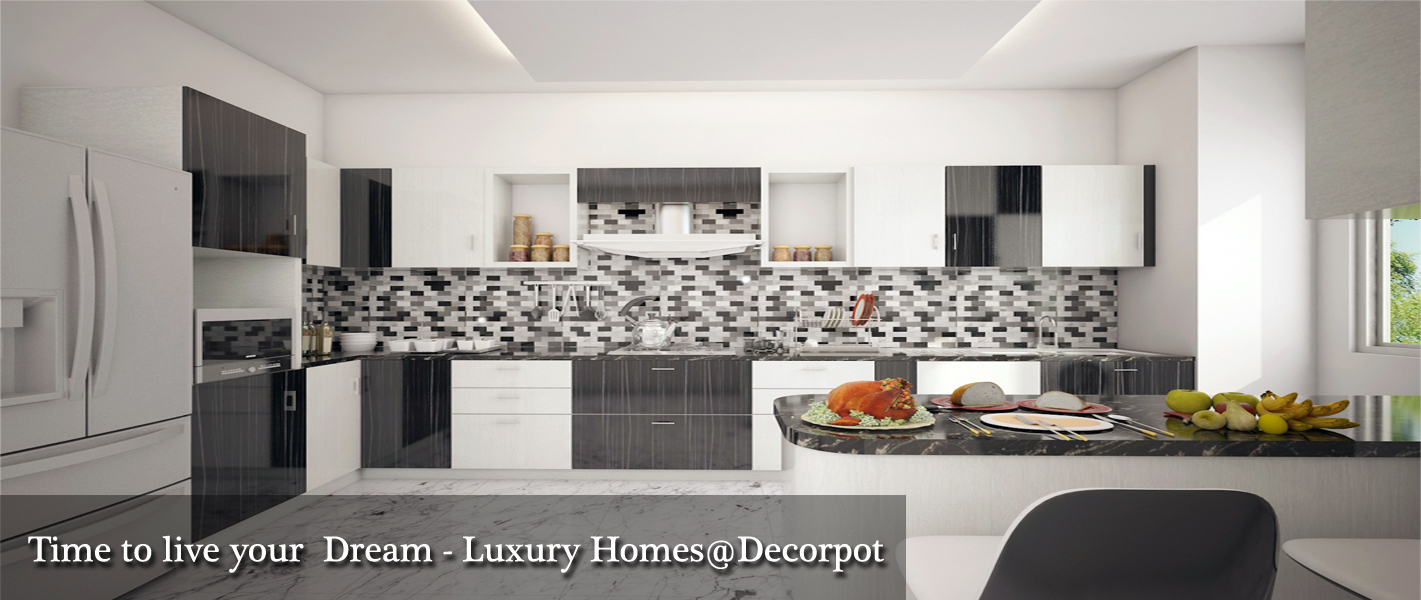
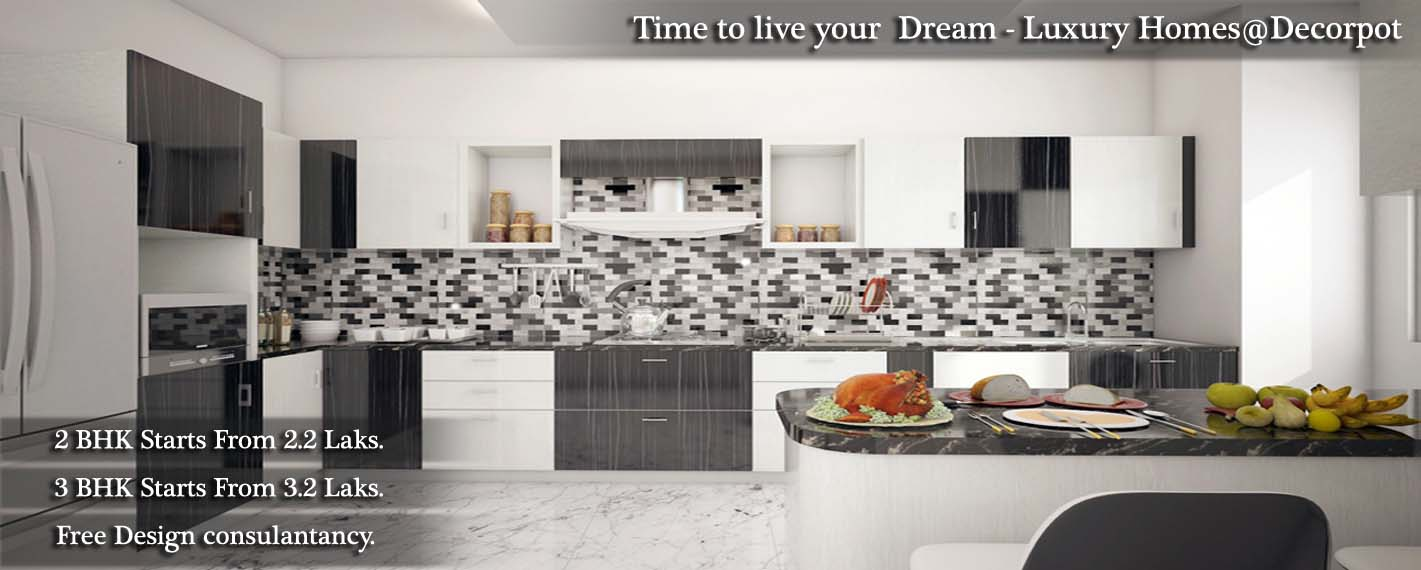
furniture and new first pages

diff --git a/decorpot-web/src/main/webapp/resources/core/js/application/app.js b/decorpot-web/src/main/webapp/resources/core/js/application/app.js
@@ -75,6 +75,10 @@ decorpot.config(['$authProvider', '$stateProvider', '$urlRouterProvider','$httpP
         url: '/project/:param',
         templateUrl : 'resources/partials/ongoingProject.html',
 		controller : 'OngoingProjectController as onCtrl'
+    }).state('furnitures', {
+    	url: '/furnitures',
+    	templateUrl: 'resources/partials/furnitures.html',
+    	controller: 'FurnituresController'
     });
 	
 	$authProvider.google({

diff --git a/decorpot-web/src/main/webapp/resources/partials/home.html b/decorpot-web/src/main/webapp/resources/partials/home.html
@@ -10,7 +10,7 @@
 			</div>
 			
 			<div class="item">
-				<img src="resources/core/img/brands.png" alt="Brands">
+				<img src="resources/core/img/banner3.jpg" alt="Brands">
 			</div>
 			
 		</div>

diff --git a/decorpot-repository/src/main/java/com/decorpot/repostory/impl/FurnituresRepoImpl.java b/decorpot-repository/src/main/java/com/decorpot/repostory/impl/FurnituresRepoImpl.java
@@ -1,0 +1,64 @@
+package com.decorpot.repostory.impl;
+
+import java.sql.ResultSet;
+import java.sql.SQLException;
+import java.util.List;
+
+import javax.sql.DataSource;
+
+import org.springframework.beans.factory.annotation.Autowired;
+import org.springframework.jdbc.core.JdbcTemplate;
+import org.springframework.jdbc.core.RowMapper;
+import org.springframework.stereotype.Repository;
+
+import com.decorpot.repository.interfaces.FurnituresRepo;
+import com.decorpot.rest.models.Furniture;
+import com.decorpot.rest.models.Furnitures;
+import com.decorpot.utils.DecorpotConstants;
+
+@Repository
+public class FurnituresRepoImpl implements FurnituresRepo {
+	
+	private JdbcTemplate jdbcTemplate;
+	private static final String getAllFurnitures = "select * from Decorpot.furnitures";
+	private static final String getAllFurnituresByType = "select * from Decorpot.furnitures where type = ?";
+	
+	@Autowired
+	public FurnituresRepoImpl(DataSource dataSource) {
+		jdbcTemplate = new JdbcTemplate(dataSource);
+	}
+
+	@Override
+	public List<Furniture> getAllFurnitures() {
+		return jdbcTemplate.query(getAllFurnitures, new FurnitureMapper());
+	}
+
+	@Override
+	public List<Furniture> getAllFurnituresByType(String type) {
+		return jdbcTemplate.query(getAllFurnituresByType, new Object[]{type}, new FurnitureMapper());
+	}
+
+	@Override
+	public Furniture getFurnitureById(int id) {
+		// TODO Auto-generated method stub
+		return null;
+	}
+	
+	public class FurnitureMapper implements RowMapper<Furniture>{
+
+		@Override
+		public Furniture mapRow(ResultSet rs, int rowNum) throws SQLException {
+			Furniture furniture = new Furniture();
+			furniture.setDescription(rs.getString("DESCRIPTION"));
+			furniture.setType(rs.getString("TYPE"));
+			furniture.setPrice(rs.getInt("PRICE"));
+			furniture.setImageHdPath(DecorpotConstants.HD_COMPRESSED_PATH + rs.getString("imageId") + DecorpotConstants.JPG);
+			furniture.setImageId(rs.getString("imageId"));
+			furniture.setImageMediumPath(DecorpotConstants.MEDIUM_PATH + rs.getString("imageId") + DecorpotConstants.JPG);
+			furniture.setImageSmallPath(DecorpotConstants.SMALL_PATH + rs.getString("imageId") + DecorpotConstants.JPG);
+			return furniture;
+		}
+		
+	}
+
+}

diff --git a/decorpot-services/src/main/java/com/decorpot/services/FurnituresServiceImpl.java b/decorpot-services/src/main/java/com/decorpot/services/FurnituresServiceImpl.java
@@ -1,0 +1,50 @@
+package com.decorpot.services;
+
+import org.springframework.beans.factory.annotation.Autowired;
+import org.springframework.stereotype.Service;
+
+import com.decorpot.cache.DataCache;
+import com.decorpot.repository.interfaces.FurnituresRepo;
+import com.decorpot.rest.models.Furniture;
+import com.decorpot.rest.models.Furnitures;
+
+@Service
+public class FurnituresServiceImpl implements FurnituresService {
+	
+	@Autowired
+	private FurnituresRepo furnituresRepo;
+
+	@Override
+	public Furnitures getAllFurnitures() {
+		String key = "getAllFurnitures";
+		Furnitures furnitures = null;
+		if (DataCache.getInstance().get(key) == null) {
+			furnitures.setFurnitures(furnituresRepo.getAllFurnitures());
+			DataCache.getInstance().put(key, furnitures);
+		}else{
+			furnitures = (Furnitures) DataCache.getInstance().get(key);
+		}
+		return furnitures;
+	}
+
+	@Override
+	public Furnitures getAllFurnituresByType(String type) {
+		
+		String key = "getAllFurnituresByType" + type;
+		Furnitures furnitures = null;
+		if (DataCache.getInstance().get(key) == null) {
+			furnitures.setFurnitures(furnituresRepo.getAllFurnituresByType(type));
+			DataCache.getInstance().put(key, furnitures);
+		}else{
+			furnitures = (Furnitures) DataCache.getInstance().get(key);
+		}
+		return furnitures;
+	}
+
+	@Override
+	public Furniture getFurnitureById(int id) {
+		// TODO Auto-generated method stub
+		return null;
+	}
+
+}

diff --git a/decorpot-core/src/main/java/com/decorpot/rest/models/Furniture.java b/decorpot-core/src/main/java/com/decorpot/rest/models/Furniture.java
@@ -1,0 +1,62 @@
+package com.decorpot.rest.models;
+
+public class Furniture {
+	
+	private int id;
+	private String type;
+	private String imageId;
+	private String description;
+	private int price;
+	private String imageHdPath;
+	private String imageMediumPath;
+	private String imageSmallPath;
+	public int getId() {
+		return id;
+	}
+	public void setId(int id) {
+		this.id = id;
+	}
+	public String getType() {
+		return type;
+	}
+	public void setType(String type) {
+		this.type = type;
+	}
+	public String getImageId() {
+		return imageId;
+	}
+	public void setImageId(String imageId) {
+		this.imageId = imageId;
+	}
+	public String getImageHdPath() {
+		return imageHdPath;
+	}
+	public void setImageHdPath(String imageHdPath) {
+		this.imageHdPath = imageHdPath;
+	}
+	public String getImageMediumPath() {
+		return imageMediumPath;
+	}
+	public void setImageMediumPath(String imageMediumPath) {
+		this.imageMediumPath = imageMediumPath;
+	}
+	public String getImageSmallPath() {
+		return imageSmallPath;
+	}
+	public void setImageSmallPath(String imageSmallPath) {
+		this.imageSmallPath = imageSmallPath;
+	}
+	public String getDescription() {
+		return description;
+	}
+	public void setDescription(String description) {
+		this.description = description;
+	}
+	public int getPrice() {
+		return price;
+	}
+	public void setPrice(int price) {
+		this.price = price;
+	}
+	
+}

diff --git a/decorpot-core/src/main/java/com/decorpot/utils/CompressFileGzip.java b/decorpot-core/src/main/java/com/decorpot/utils/CompressFileGzip.java
@@ -1,0 +1,50 @@
+package com.decorpot.utils;
+
+import java.io.FileInputStream;
+import java.io.FileOutputStream;
+import java.io.IOException;
+import java.util.zip.GZIPOutputStream;
+
+public class CompressFileGzip {
+
+	public static void main(String[] args) {
+
+		
+		String source_filepath = "";
+		String destinaton_zip_filepath = "";
+
+		CompressFileGzip gZipFile = new CompressFileGzip();
+		gZipFile.gzipFile(source_filepath, destinaton_zip_filepath);
+	}
+
+	public void gzipFile(String source_filepath, String destinaton_zip_filepath) {
+
+		byte[] buffer = new byte[1024];
+
+		try {
+			
+			FileOutputStream fileOutputStream =new FileOutputStream(destinaton_zip_filepath);
+
+			GZIPOutputStream gzipOuputStream = new GZIPOutputStream(fileOutputStream);
+
+			FileInputStream fileInput = new FileInputStream(source_filepath);
+
+			int bytes_read;
+			
+			while ((bytes_read = fileInput.read(buffer)) > 0) {
+				gzipOuputStream.write(buffer, 0, bytes_read);
+			}
+
+			fileInput.close();
+
+			gzipOuputStream.finish();
+			gzipOuputStream.close();
+
+			System.out.println("The file was compressed successfully!");
+
+		} catch (IOException ex) {
+			ex.printStackTrace();
+		}
+	}
+
+}

diff --git a/decorpot-web/src/main/java/com/decorpot/controller/FurnituresController.java b/decorpot-web/src/main/java/com/decorpot/controller/FurnituresController.java
@@ -1,0 +1,39 @@
+package com.decorpot.controller;
+
+import org.springframework.beans.factory.annotation.Autowired;
+import org.springframework.web.bind.annotation.PathVariable;
+import org.springframework.web.bind.annotation.RequestMapping;
+import org.springframework.web.bind.annotation.RestController;
+import org.springframework.web.servlet.config.annotation.EnableWebMvc;
+
+import com.decorpot.rest.models.Furniture;
+import com.decorpot.rest.models.Furnitures;
+import com.decorpot.services.FurnituresService;
+
+@EnableWebMvc
+@RestController
+@RequestMapping("/furnitures")
+public class FurnituresController {
+	
+	@Autowired
+	private FurnituresService furnituresService;
+	
+	
+	public Furnitures getAllFurnitures(){
+		return furnituresService.getAllFurnitures();
+		
+	}
+	
+	@RequestMapping(value="/{type}")
+	public Furnitures getAllFurnituresByType(@PathVariable String  type){
+		return furnituresService.getAllFurnituresByType(type);
+		
+	}
+	
+	@RequestMapping(value="/{id}")
+	public Furniture getFurnitureById(@PathVariable int id){
+		return furnituresService.getFurnitureById(id);
+		
+	}
+
+}

diff --git a/decorpot-web/src/main/java/com/decorpot/controller/ProjectsController.java b/decorpot-web/src/main/java/com/decorpot/controller/ProjectsController.java
@@ -8,9 +8,11 @@ import org.springframework.web.bind.annotation.PathVariable;
 import org.springframework.web.bind.annotation.RequestMapping;
 import org.springframework.web.bind.annotation.RequestMethod;
 import org.springframework.web.bind.annotation.RestController;
+import org.springframework.web.servlet.config.annotation.EnableWebMvc;
 
 import com.decorpot.services.ProjectsService;
 
+@EnableWebMvc
 @RestController
 @RequestMapping("/projects")
 public class ProjectsController {

diff --git a/decorpot-repository/src/main/java/com/decorpot/repository/interfaces/FurnituresRepo.java b/decorpot-repository/src/main/java/com/decorpot/repository/interfaces/FurnituresRepo.java
@@ -1,0 +1,14 @@
+package com.decorpot.repository.interfaces;
+
+import java.util.List;
+
+import com.decorpot.rest.models.Furniture;
+import com.decorpot.rest.models.Furnitures;
+
+public interface FurnituresRepo {
+	
+	public List<Furniture> getAllFurnitures();
+	public List<Furniture> getAllFurnituresByType(String type);
+	public Furniture getFurnitureById(int id);
+
+}

diff --git a/decorpot-services/src/main/java/com/decorpot/services/FurnituresService.java b/decorpot-services/src/main/java/com/decorpot/services/FurnituresService.java
@@ -1,0 +1,12 @@
+package com.decorpot.services;
+
+import com.decorpot.rest.models.Furniture;
+import com.decorpot.rest.models.Furnitures;
+
+public interface FurnituresService {
+	
+	public Furnitures getAllFurnitures();
+	public Furnitures getAllFurnituresByType(String type);
+	public Furniture getFurnitureById(int id);
+
+}

diff --git a/decorpot-core/src/main/java/com/decorpot/rest/models/Furnitures.java b/decorpot-core/src/main/java/com/decorpot/rest/models/Furnitures.java
@@ -1,0 +1,16 @@
+package com.decorpot.rest.models;
+
+import java.util.List;
+
+public class Furnitures {
+
+	private List<Furniture> furnitures;
+
+	public List<Furniture> getFurnitures() {
+		return furnitures;
+	}
+
+	public void setFurnitures(List<Furniture> furnitures) {
+		this.furnitures = furnitures;
+	}
+}

diff --git a/decorpot-core/src/main/java/com/decorpot/utils/DecorpotConstants.java b/decorpot-core/src/main/java/com/decorpot/utils/DecorpotConstants.java
@@ -1,0 +1,10 @@
+package com.decorpot.utils;
+
+public interface DecorpotConstants {
+	
+	String HD_COMPRESSED_PATH = "";
+	String MEDIUM_PATH = "";
+	String SMALL_PATH = "";
+	String JPG = ".jpg";
+
+}
